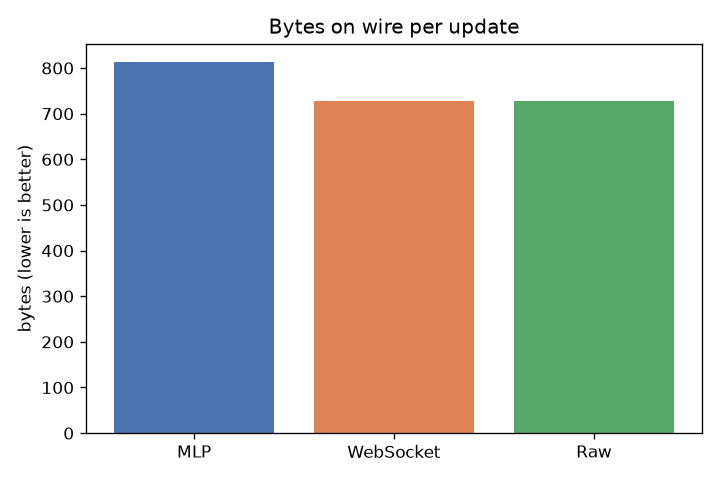
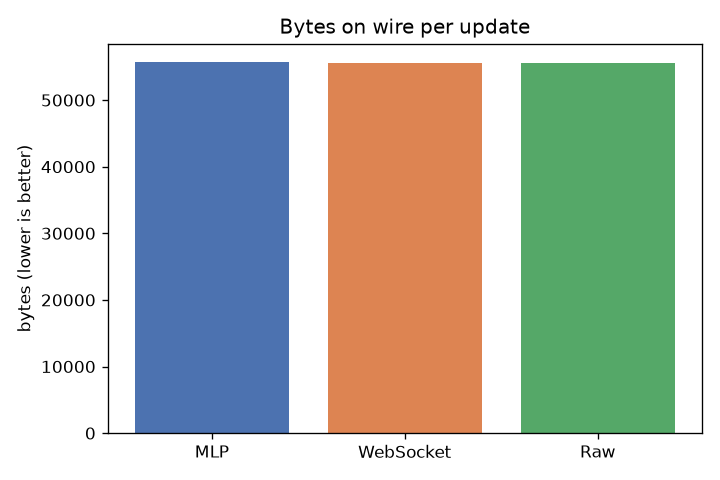
Regenerate plots with fair first-delivery measurement

diff --git a/results/plot_all.py b/results/plot_all.py
@@ -3,18 +3,18 @@ matplotlib.use('Agg')
 import matplotlib.pyplot as plt
 
 scenarios = ['ideal','good','bad','terrible','jitter']
-mlp_med = [10.8,56.2,182.3,386.7,157.8]
-ws_med  = [5.1,27.1,94.6,194.1,87.3]
-raw_med = [5.1,27.1,92.1,194.6,85.1]
-mlp_p95 = [12.4,60.1,200.7,420.7,196.8]
-ws_p95  = [5.1,30.1,245.2,509.1,109.1]
-mlp_heals = [0,0,0,2,0]
-ws_heals  = [0,0,4,3,1]
+mlp_med = [25.2,48.0,106.9,209.0,97.1]
+ws_med  = [5.1,27.6,89.6,204.6,85.1]
+raw_med = [5.1,27.1,88.6,187.1,83.6]
+mlp_p95 = [29.7,50.9,124.8,248.7,117.7]
+ws_p95  = [5.1,30.1,102.1,544.2,179.2]
+mlp_heals = [0,0,3,4,0]
+ws_heals  = [0,0,1,6,2]
 raw_heals = [0,0,0,0,0]
-mlp_bytes = [813]*5
-ws_bytes  = [727]*5
-mlp_enc = [8.664,8.595,8.603,9.002,8.448]
-ws_enc  = [1.550,1.505,1.595,1.499,1.589]
+mlp_bytes = [55698]*5
+ws_bytes  = [55612]*5
+mlp_enc = [91.460,84.753,83.998,83.046,83.844]
+ws_enc  = [83.994,84.358,84.286,84.798,85.934]
 
 # 1. latency med
 fig, ax = plt.subplots(figsize=(8,4))
@@ -57,7 +57,7 @@ plt.tight_layout(); plt.savefig('results/encode.png', dpi=120)
 
 # 5. bytes
 fig, ax = plt.subplots(figsize=(6,4))
-ax.bar(['MLP','WebSocket','Raw'], [813,727,727], color=['#4c72b0','#dd8452','#55a868'])
+ax.bar(['MLP','WebSocket','Raw'], [55698,55612,55612], color=['#4c72b0','#dd8452','#55a868'])
 ax.set_ylabel('bytes (lower is better)'); ax.set_title('Bytes on wire per update')
 plt.tight_layout(); plt.savefig('results/bytes.png', dpi=120)
 

diff --git a/results/plot.py b/results/plot.py
@@ -3,11 +3,11 @@ matplotlib.use('Agg')
 import matplotlib.pyplot as plt
 
 scenarios = ['ideal','good','bad','terrible','jitter']
-mlp = [10.2,56.2,181.7,368.6,166.7]
-ws  = [5.1,27.1,92.6,205.6,77.6]
-raw = [5.1,27.6,92.1,181.6,90.1]
-mlp_p95 = [10.2,60.2,198.2,415.2,206.2]
-ws_p95  = [5.1,30.1,101.1,859.2,102.1]
+mlp = [25.2,48.0,106.9,209.0,97.1]
+ws  = [5.1,27.6,89.6,204.6,85.1]
+raw = [5.1,27.1,88.6,187.1,83.6]
+mlp_p95 = [29.7,50.9,124.8,248.7,117.7]
+ws_p95  = [5.1,30.1,102.1,544.2,179.2]
 
 fig, (ax1, ax2) = plt.subplots(1, 2, figsize=(12,5))
 x = range(len(scenarios))
